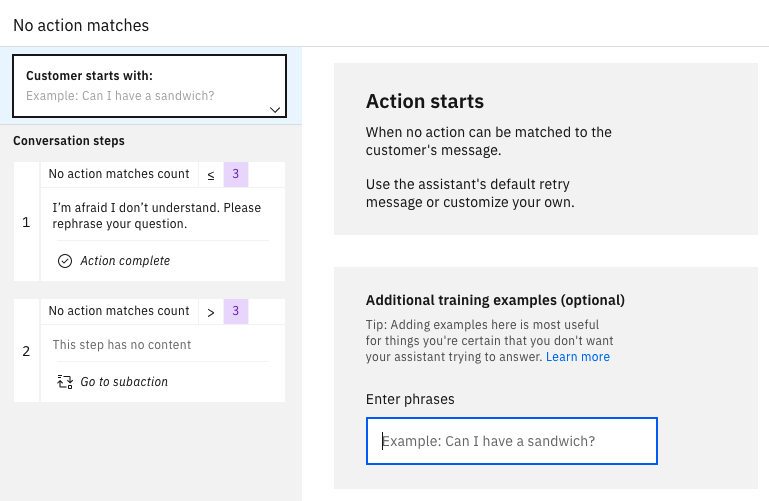
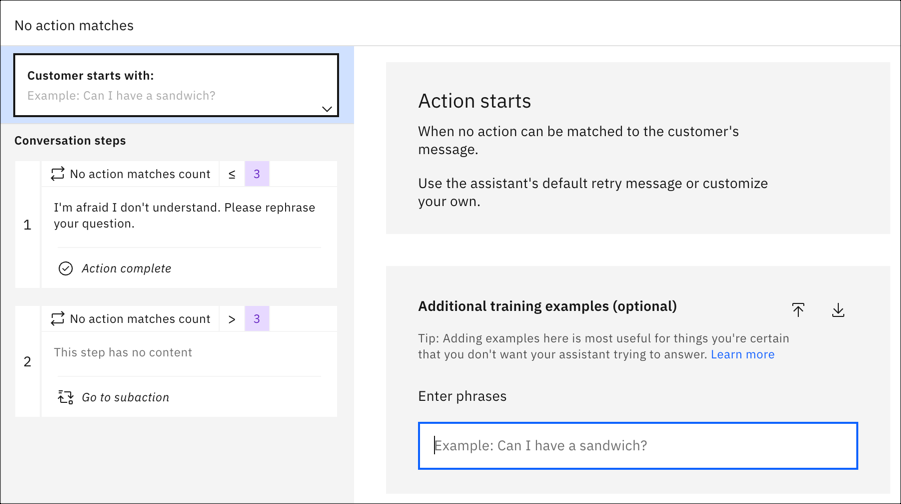
Update handle-errors.md
Add content about uploading and downloading example phrases for No Action Matches and Fallback.

diff --git a/handle-errors.md b/handle-errors.md
@@ -2,7 +2,7 @@
 
 copyright:
   years: 2018, 2021
-lastupdated: "2021-10-06"
+lastupdated: "2022-05-19"
 
 subcollection: watson-assistant
 
@@ -32,6 +32,7 @@ No matter how well your assistant is designed, sometimes customers can run into 
 {: shortdesc}
 
 ## How error conditions are handled
+{: #handle-errors-how-error-conditions-handled}
 
 There are several kinds of error situations your assistant might need to recover from:
 
@@ -56,7 +57,7 @@ By default, this action has two steps, each step conditioned on the *No action m
 
 - For the first three unrecognized messages, step 1 executes. This step simply outputs a message saying that the assistant did not recognize the user's input, and asking the user to try again. You can edit this step to change the message, or modify the step condition to change how many times the assistant responds with this message.
 
-  When the user sends input that successfully triggers an action, the *No action matches count* session variable is reset to 0.
+    When the user sends input that successfully triggers an action, the *No action matches count* session variable is reset to 0.
 
 - If the user tries more than three times but the assistant still doesn't understand, step 2 executes. Step 2 calls the *Fallback* action, which offers other options like connecting to a human agent. (For more information about the *Fallback* action, see [Fallback action](#fallback-action).)
 
@@ -64,15 +65,16 @@ You can edit the *No action matches* action just as you can any other action. Th
 {: tip}
 
 #### Adding examples of unsupported input
+{: #no-action-matches-add-examples}
 
 By default, the *No action matches* action is triggered only when the user's input does not match any defined action.
 
-If there are certain user requests that you can anticipate, but that your assistant does not support, you can add these requests as examples in the **Customer starts with** section of the *No action matches* action. Adding examples helps to ensure that these requests are sent directly to the *No action matches* action rather than triggering a different action by mistake.
+If there are certain user requests that you can anticipate, but that your assistant does not support, you can add these requests as example phrases in the **Customer starts with** section of the *No action matches* action. Adding example phrases helps to ensure that these requests are sent directly to the *No action matches* action rather than triggering a different action by mistake. You can also upload or download examples phrases in a comma-separated value (CSV) file, just like you can when building your own actions. For more information on uploading or downloading example phrases, see [Adding more examples](/docs/watson-assistant?topic=watson-assistant-understand-questions#understand-questions-adding-more-examples).
 
 ### When your customer gives invalid answers
 {: #step-validation}
 
-When a step in an action asks your customer to answer questions or provide additional information, the assistant expects a particular response type, such as a number, date, or text string. (For more information about customer response types, see [Collecting information from your customer](/docs/watson-assistant?topic=watson-assistant-collect-info).) The assistant checks the customer's response to make sure it fits the expected response type; this process is called _validation_.
+When a step in an action asks your customer to answer questions or provide additional information, the assistant expects a particular response type, such as a number, date, or text string. (For more information about customer response types, see [Collecting information from your customer](/docs/watson-assistant?topic=watson-assistant-collect-info).) The assistant checks the customer's response to make sure it fits the expected response type; this process is called *validation*.
 
 For most customer response types, the assistant is able to understand valid responses provided in a variety of formats. For example, for a time value, `2:15 PM` and `a quarter past two in the afternoon` are both acceptable. But if the user provides a value that the assistant cannot interpret as matching the expected response type (for example, a response of `purple` when asked for a number), a validation error results.
 
@@ -80,6 +82,7 @@ When there is a validation error, the assistant asks the customer to try again. 
 After the third attempt, another invalid attempt triggers the *Fallback* action, which offers other options like connecting to a human agent. (For more information about the *Fallback* action, see [Fallback action](#fallback-action).)
 
 #### Customizing validation for a response
+{: #customize-validation}
 
 When you edit a step that expects a customer response, you can customize how validation errors are handled. Click **Edit validation** to see the validation options:
 
@@ -92,8 +95,9 @@ You can customize the following options:
 - Click **`+`** or **`-`**, or directly edit the number, to change how many consecutive tries the customer can make before the *Fallback* action is triggered.
 
 ### When your customer asks to speak to a human agent
+{: #fallback-human-agent}
 
-At any point in the conversation, your customer might ask to speak to a human agent. The built-in *Fallback* action is preconfigured with example input that detects such requests; you can edit the **Customer starts with** section of the *Fallback* action to add more examples.
+At any point in the conversation, your customer might ask to speak to a human agent. The built-in *Fallback* action is preconfigured with example input that detects such requests; you can edit the **Customer starts with** section of the *Fallback* action to add more examples. You can also upload or download examples phrases in a comma-separated value (CSV) file, just like you can when building your own actions. For more information on uploading or downloading example phrases, see [Adding more examples](/docs/watson-assistant?topic=watson-assistant-understand-questions#understand-questions-adding-more-examples).
 
 ## Editing the fallback action
 {: #fallback-action}
